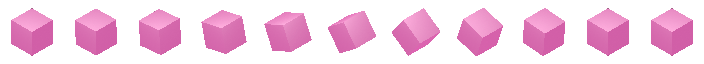
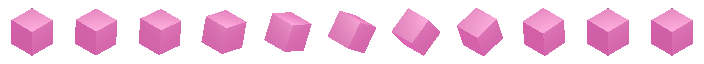
Finished (?) Prototype

diff --git a/src/prefabs/Player.js b/src/prefabs/Player.js
@@ -4,7 +4,7 @@ class Player extends Phaser.GameObjects.Sprite{
     scene.add.existing(this);
     this.zones = zones;
     this.currentPos = [2, 7]; // Row (0-4), Column (0-22)
-    this.height = 0;
+    this.elevation = 0;
     this.currentAction = "forward";
     this.isDead = false;
   }
@@ -20,28 +20,36 @@ class Player extends Phaser.GameObjects.Sprite{
     let neighborTiles = this.getSurroundingTiles();
     // Moving will change the row and column of the player
     if(this.currentAction == "left"){
-      this.currentPos[0]--;
-      this.currentPos[1]--;
-      if (currentTile+1 == neighborTiles[0]) this.height++;
-      if (currentTile-1 == neighborTiles[0]) this.height--;
+      if (currentTile+1 == neighborTiles[0]) this.elevation++;
+      if (currentTile-1 == neighborTiles[0]) this.elevation--;
+      if (!(currentTile+2 == neighborTiles[0])){
+        this.currentPos[0]--;
+        this.currentPos[1]--;
+      }
     }
     if(this.currentAction == "right"){
-      this.currentPos[0]++;
-      this.currentPos[1]--;
-      if (currentTile+1 == neighborTiles[2]) this.height++;
-      if (currentTile-1 == neighborTiles[2]) this.height--;
+      if (currentTile+1 == neighborTiles[2]) this.elevation++;
+      if (currentTile-1 == neighborTiles[2]) this.elevation--;
+      if (!(currentTile+2 == neighborTiles[2])){
+        this.currentPos[0]++;
+        this.currentPos[1]--;
+      }
+      
     }
     if(this.currentAction == "forward"){
-      if (currentTile+1 == neighborTiles[1]) this.height++;
-      if (currentTile-1 == neighborTiles[1]) this.height--;
+      if (currentTile+1 == neighborTiles[1]) this.elevation++;
+      if (currentTile-1 == neighborTiles[1]) this.elevation--;
+      if (currentTile+2 == neighborTiles[1]) this.currentPos[1]--;
+      if (currentTile-2 == neighborTiles[1]) this.elevation -= 2;
     }
 
     // After changing the row/column of player, convert it into game coordinates
     let coords = this.gridToCoords();
     this.x = coords[0];
-    this.y = coords[1] - (32*this.height);
+    this.y = coords[1] - (32*this.elevation);
 
-    this.setDepth(this.calculateDepth() + (this.height*5));
+    this.setDepth(this.calculateDepth() + (this.elevation*5));
+    this.anims.play('rotateForward');
     this.reset();
     this.checkOutOfBounds();
   }
@@ -75,7 +83,7 @@ class Player extends Phaser.GameObjects.Sprite{
     let column = this.currentPos[1];
     // These are the coordinates for the very first row/column;
     let x = -48;
-    let y = 400;
+    let y = 432;
     for(let i=0; i < row; i++){
       x += 32;
       y += 16;

diff --git a/src/prefabs/ZoneManager.js b/src/prefabs/ZoneManager.js
@@ -1,15 +1,8 @@
 class ZoneManager{
   constructor(){
     this.zones = [];
-    this.prevIndex = 1;
+    this.prevKey;
   }
-  /* 
-    TODO:
-    - Add more zones to template
-    - (if there's time) Add "speed up" zones that add points and let the player move up a space
-    - (if there's time) Switch to a YAML format instead of JSON for better readability
-  */
-
 
   create(){
     if(this.zones.length > 0) return console.error("Zones already exist");
@@ -28,20 +21,26 @@ class ZoneManager{
       // zone.push(this.generateNewNumber(prevNum));
     }
     // If there aren't enough zones, create new ones
-    if(this.zones[0].length < 23) this.addObstaclesFromTemplate();
+    if(this.zones[0].length < 23) this.addObstaclesFromYAML();
     this.zonesToConsole();
   }
 
-  addObstaclesFromTemplate(){
-    let randomIndex = Math.floor(Math.random() * numOfObstacles);
-    // If it's the same index as before, get a new index
-    if(randomIndex == this.prevIndex) return this.addObstaclesFromTemplate();
-    this.prevIndex = randomIndex;
-
-    let newZones = availableObstacles[randomIndex];
-    for(let row = 0; row < newZones.length; row++){
-      for(const digit of newZones[row]) this.zones[row].push(parseInt(digit));
-      // Add a little buffer after every obstacle
+  addObstaclesFromYAML(){
+    let zone;
+    if(templateObstacles["ObstacleTest"] != null){
+      let key = templateObstacles["ObstacleTest"]
+      zone = templateObstacles[key];
+    } 
+    if(templateObstacles["ObstacleTest"] == null){
+      const keys = Object.keys(templateObstacles);
+      let randomKey =  keys[Math.floor(Math.random() * keys.length)];
+      if(randomKey == "ObstacleTest" || randomKey == this.prevIndex) return this.addObstaclesFromYAML();
+      this.prevKey = randomKey;
+      zone = templateObstacles[randomKey];
+    }
+    for(let row=0; row<zone.length; row++){
+      let array = zone[row].split(", ");
+      for(const digit of array) this.zones[row].push(parseInt(digit));
       this.zones[row].push(0, 0, 0);
     }
   }

diff --git a/src/scenes/Play.js b/src/scenes/Play.js
@@ -11,6 +11,8 @@ class Play extends Phaser.Scene {
     // VARIABLES
     this.timerDelay = 1000;
 
+    this.generateAnimations();
+
     // Set the keys
     keyLeft = this.input.keyboard.addKey(Phaser.Input.Keyboard.KeyCodes.A);
     keyRight = this.input.keyboard.addKey(Phaser.Input.Keyboard.KeyCodes.D);
@@ -51,7 +53,7 @@ class Play extends Phaser.Scene {
       callbackScope: this
     })
 
-    this.player = new Player(this, 240, 320, 'player', 0, this.zoneManager.zones).setOrigin(0.5);
+    this.player = new Player(this, 240, 352, 'rotateForward', 0, this.zoneManager.zones).setOrigin(0.5);
   }
 
   update(time, delta){
@@ -65,13 +67,22 @@ class Play extends Phaser.Scene {
     let zones = this.zoneManager.zones
     let column = 22;
     for (let row = 0; row <= 4; row++) {
-      let currentPoint = zones[row][column];
+      let tile = zones[row][column];
       // Offset includes x and y values in array. Different offsets for different zones. Zones 0-4. 
       let offset = [80-(32*row) , 448 + (16*row)];
 
       // If current point is 0, do nothing
       // If current point is 1, add a 1-cube-tall sprite
-      if(currentPoint == 1) this.obstacles.push(new Obstacle(this, 32*(column)-offset[0] , offset[1]-16*(column), 'obstacle', 0, row));
+      if(tile == 1) this.obstacles.push(new Obstacle(this, 32*(column)-offset[0] , offset[1]-16*(column), 'obstacle', 0, row));
+      if(tile == 2) this.obstacles.push(new Obstacle(this, 32*(column)-offset[0] , offset[1]-16*(column+1), 'obstacleTall', 0, row));
     }
+  }
+
+  generateAnimations(){
+    this.anims.create({
+      key: 'rotateForward', 
+      frames: this.anims.generateFrameNumbers('rotateForward', {start: 0, end: 10, first: 0}),
+      frameRate: 30,
+    });
   }
 }

diff --git a/src/main.js b/src/main.js
@@ -19,18 +19,13 @@ let config = {
   scene: [Menu, Play, Gameover]
 }
 // Load up JSON file that has all obstacles and set it to a global variable
-let availableObstacles;
-let numOfObstacles = 0;
-async function loadJSON(){
-  let zoneJSON = await fetch("./src/prefabs/AvailableObstacles.json");
-  let zoneTEXT = await zoneJSON.text();
-  availableObstacles = JSON.parse(zoneTEXT);
-  for(const key in availableObstacles) numOfObstacles++;
+let templateObstacles;
+async function loadResources(){
+  let yaml = await fetch("./src/TemplateObstacles.yaml")
+  let yamlText = await yaml.text();
+  templateObstacles = jsyaml.load(yamlText);
 }
-loadJSON();
-
-
-
+loadResources();
 
 let game = new Phaser.Game(config);
 

diff --git a/src/prefabs/Obstacle.js b/src/prefabs/Obstacle.js
@@ -5,16 +5,18 @@ class Obstacle extends Phaser.GameObjects.Sprite{
     this.setOrigin(0.5);
     this.currentPos = [row, 21]; // X and Y based on a simple grid
     this.targetPos;
+    this.elevation = 0;
+    if(texture == "obstacleTall") this.elevation = 1;
 
     // Variables
-    this.movespeed = 40;
+    this.movespeed = 80;
   }
 
   // Gets called every interval
   updateVariables(){
     this.targetPos = [Math.floor(this.x - 32), Math.floor(this.y + 16)];
     this.currentPos[1]--;
-    this.setDepth(this.calculateDepth());
+    this.setDepth(this.calculateDepth()+ (this.elevation*5));
   }
   tryToDestroy(){
     if(this.x < -32 && this.y > game.config.height + 16){

diff --git a/src/scenes/Menu.js b/src/scenes/Menu.js
@@ -19,10 +19,11 @@ class Menu extends Phaser.Scene {
     }
 
     this.load.path = './assets/';
-    this.load.image('player', 'cubePink.png');
     this.load.image('obstacle', 'cubeBlue.png');
     this.load.image('obstacleTall', 'cubeBlueTall.png');
     this.load.image('platform', 'platformNew.png');
+    this.load.image('player', 'cubePink.png');
+    this.load.spritesheet('rotateForward', 'cubePinkSheet.png', {frameWidth: 64, frameHeight: 64});
   }
 
   create() {

diff --git a/index.html b/index.html
@@ -8,6 +8,7 @@
 
   <link rel="stylesheet" href="./styles/main.css">
 
+  <script src="https://cdnjs.cloudflare.com/ajax/libs/js-yaml/3.13.1/js-yaml.min.js" defer></script>
   <script src="./lib/phaser.js"></script>
   <script src="./src/prefabs/Player.js"></script>
   <script src="./src/prefabs/Obstacle.js"></script>
